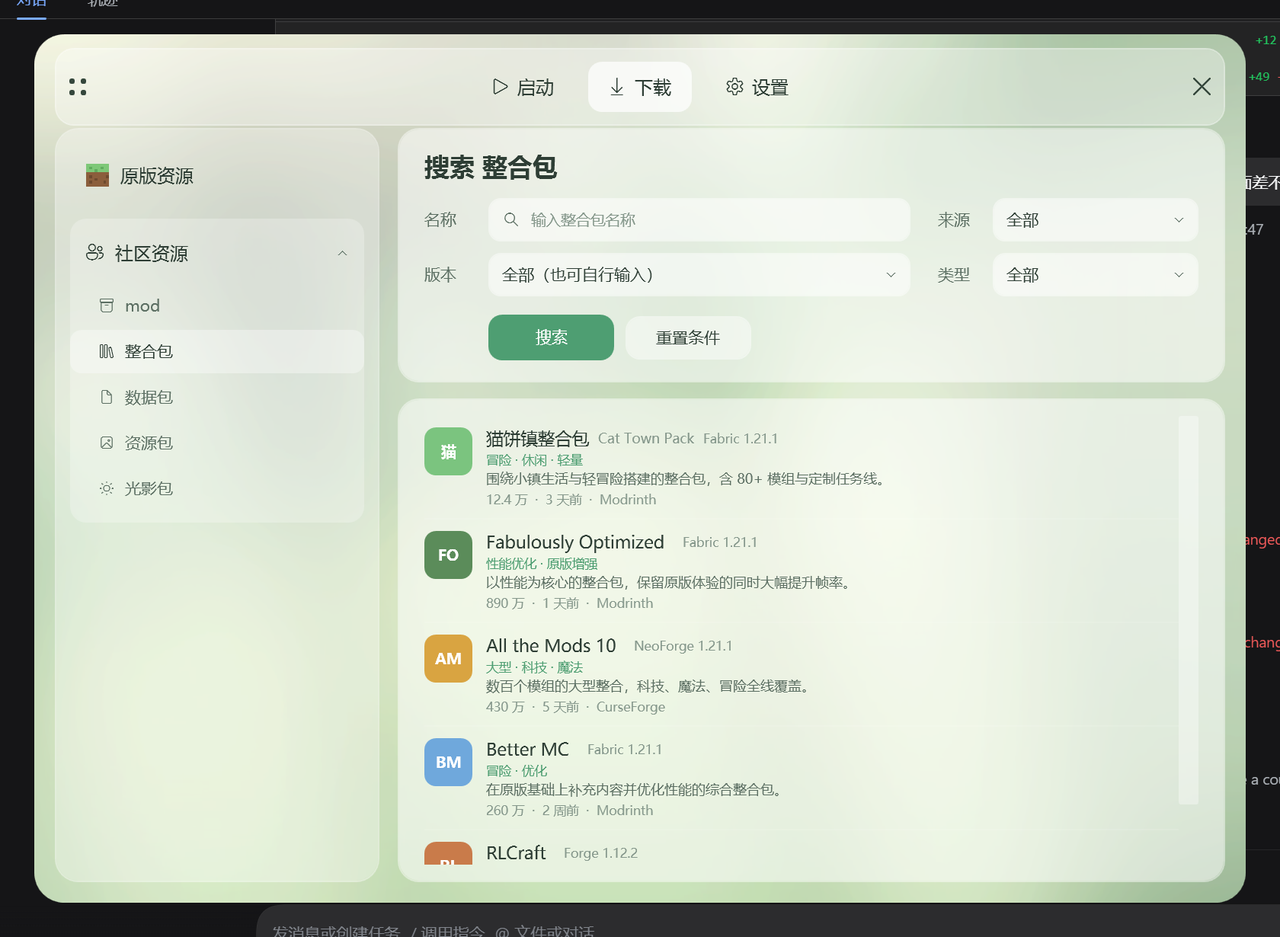
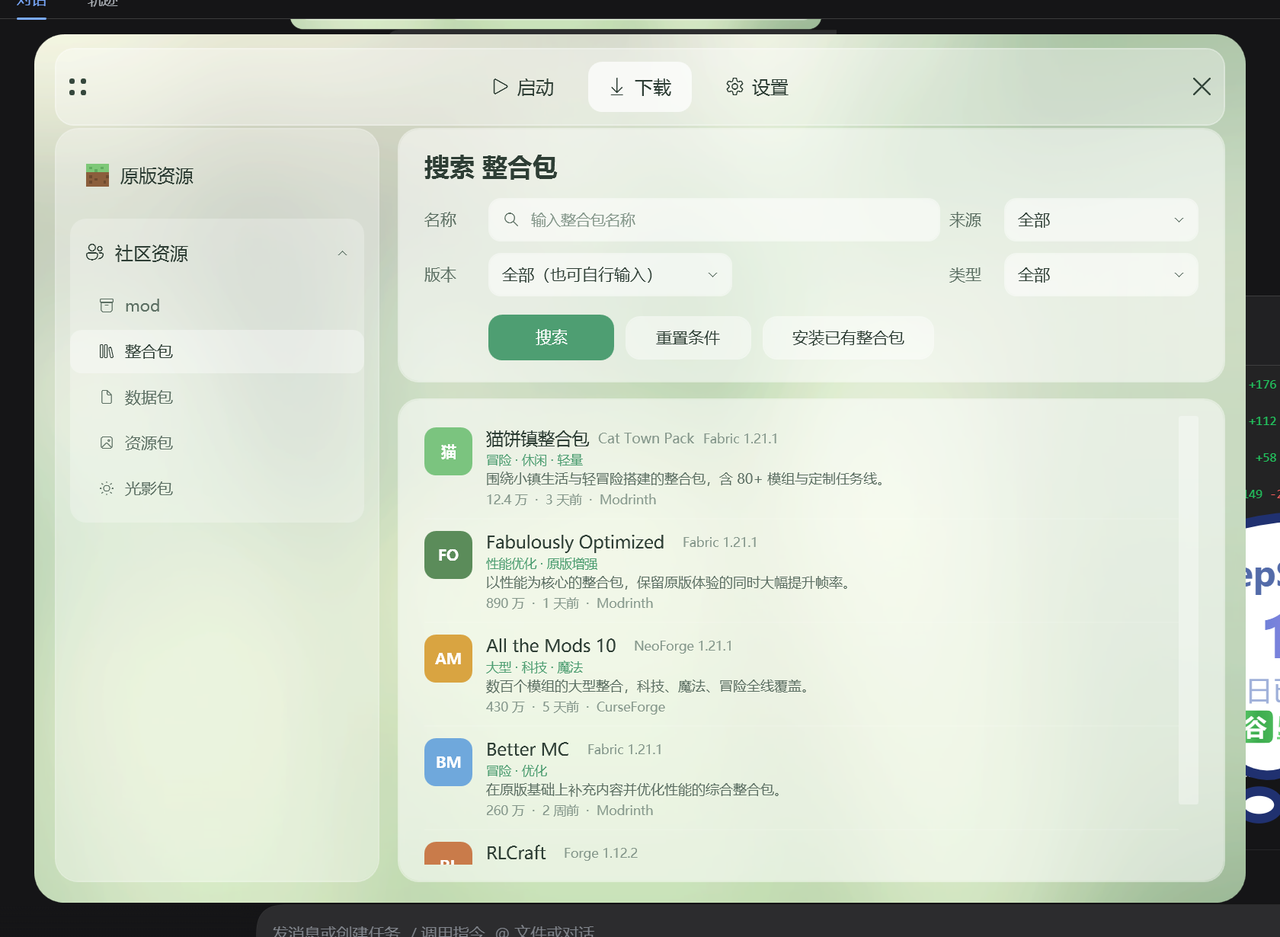
feat: Mod 搜索加加载器下拉，整合包页加安装已有整合包按钮

diff --git a/src/MutsumiLauncher/Views/Pages/CommunitySearchView.xaml b/src/MutsumiLauncher/Views/Pages/CommunitySearchView.xaml
@@ -18,8 +18,10 @@
                     <Grid.ColumnDefinitions>
                         <ColumnDefinition Width="56" />
                         <ColumnDefinition Width="*" />
+                        <ColumnDefinition Width="12" />
+                        <ColumnDefinition Width="170" />
                         <ColumnDefinition Width="56" />
-                        <ColumnDefinition Width="180" />
+                        <ColumnDefinition Width="170" />
                     </Grid.ColumnDefinitions>
                     <Grid.RowDefinitions>
                         <RowDefinition Height="Auto" />
@@ -28,35 +30,52 @@
                     </Grid.RowDefinitions>
 
                     <TextBlock Text="名称" Style="{StaticResource FieldLabel}" />
-                    <controls:MtlSearchBox x:Name="SearchNameBox" Grid.Column="1" Margin="0,0,16,0"
+                    <controls:MtlSearchBox x:Name="SearchNameBox" Grid.Column="1" Grid.ColumnSpan="3"
                                            Placeholder="输入名称" />
-                    <TextBlock Text="来源" Style="{StaticResource FieldLabel}" Grid.Column="2" Margin="8,0,0,0" />
-                    <ComboBox Grid.Column="3" Style="{StaticResource MtlComboBox}" SelectedIndex="0">
+                    <TextBlock Text="来源" Style="{StaticResource FieldLabel}" Grid.Column="4" Margin="8,0,0,0" />
+                    <ComboBox Grid.Column="5" Style="{StaticResource MtlComboBox}" SelectedIndex="0">
                         <ComboBoxItem Content="全部" />
                         <ComboBoxItem Content="Modrinth" />
                         <ComboBoxItem Content="CurseForge" />
                     </ComboBox>
 
                     <TextBlock Text="版本" Style="{StaticResource FieldLabel}" Grid.Row="1" Margin="0,10,0,0" />
-                    <ComboBox Grid.Row="1" Grid.Column="1" Style="{StaticResource MtlComboBox}"
-                              Margin="0,10,16,0" SelectedIndex="0">
+                    <ComboBox x:Name="VersionCombo" Grid.Row="1" Grid.Column="1"
+                              Style="{StaticResource MtlComboBox}" Margin="0,10,0,0" SelectedIndex="0">
                         <ComboBoxItem Content="全部（也可自行输入）" />
+                        <ComboBoxItem Content="26.2" />
                         <ComboBoxItem Content="1.21.1" />
                         <ComboBoxItem Content="1.20.1" />
+                        <ComboBoxItem Content="1.16.5" />
                     </ComboBox>
-                    <TextBlock Text="类型" Style="{StaticResource FieldLabel}" Grid.Row="1" Grid.Column="2"
+                    <ComboBox x:Name="LoaderCombo" Grid.Row="1" Grid.Column="3"
+                              Style="{StaticResource MtlComboBox}" Margin="0,10,0,0"
+                              SelectedIndex="0" Visibility="Collapsed">
+                        <ComboBoxItem Content="任意 Mod 加载器" />
+                        <ComboBoxItem Content="Fabric" />
+                        <ComboBoxItem Content="NeoForge" />
+                        <ComboBoxItem Content="Forge" />
+                        <ComboBoxItem Content="Quilt" />
+                    </ComboBox>
+                    <TextBlock Text="类型" Style="{StaticResource FieldLabel}" Grid.Row="1" Grid.Column="4"
                                Margin="8,10,0,0" />
-                    <ComboBox x:Name="TypeCombo" Grid.Row="1" Grid.Column="3" Style="{StaticResource MtlComboBox}"
+                    <ComboBox x:Name="TypeCombo" Grid.Row="1" Grid.Column="5" Style="{StaticResource MtlComboBox}"
                               Margin="0,10,0,0" SelectedIndex="0">
                         <ComboBoxItem Content="全部" />
+                        <ComboBoxItem Content="轻量" />
+                        <ComboBoxItem Content="大型" />
+                        <ComboBoxItem Content="优化" />
                     </ComboBox>
 
-                    <StackPanel Grid.Row="2" Grid.Column="1" Grid.ColumnSpan="3" Orientation="Horizontal"
+                    <StackPanel Grid.Row="2" Grid.Column="1" Grid.ColumnSpan="5" Orientation="Horizontal"
                                 Margin="0,16,0,0">
                         <Button Style="{StaticResource PrimaryButton}" Content="搜索" Width="110"
                                 Click="Search_Click" />
                         <Button Style="{StaticResource SecondaryButton}" Content="重置条件" Width="110"
                                 Margin="10,0,0,0" Click="ResetSearch_Click" />
+                        <Button x:Name="InstallPackButton" Style="{StaticResource SecondaryButton}"
+                                Content="安装已有整合包" Width="150" Margin="10,0,0,0"
+                                Visibility="Collapsed" Click="InstallPack_Click" />
                     </StackPanel>
                 </Grid>
             </StackPanel>

diff --git a/src/MutsumiLauncher/Views/Pages/CommunitySearchView.xaml.cs b/src/MutsumiLauncher/Views/Pages/CommunitySearchView.xaml.cs
@@ -1,6 +1,7 @@
 using System.Windows;
 using System.Windows.Controls;
 using MutsumiLauncher.ViewModels;
+using MutsumiLauncher.Views;
 
 namespace MutsumiLauncher.Views.Pages;
 
@@ -28,6 +29,10 @@ public partial class CommunitySearchView : UserControl
             _ => "输入 Mod 名称",
         };
 
+        // Mod 分类多一个加载器下拉；整合包分类多一个“安装已有整合包”按钮
+        LoaderCombo.Visibility = kind == "mod" ? Visibility.Visible : Visibility.Collapsed;
+        InstallPackButton.Visibility = kind == "pack" ? Visibility.Visible : Visibility.Collapsed;
+
         _source = CommunitySamples.ForKind(kind);
         SearchNameBox.Text = string.Empty;
         ResultsList.ItemsSource = _source;
@@ -47,6 +52,11 @@ public partial class CommunitySearchView : UserControl
                 .ToList();
 
         Loading.IsActive = false;
+    }
+
+    private void InstallPack_Click(object sender, RoutedEventArgs e)
+    {
+        (Window.GetWindow(this) as MainWindow)?.ShowToast("安装已有整合包：文件选择与解析还没接上。");
     }
 
     private void ResetSearch_Click(object sender, RoutedEventArgs e)

diff --git a/README.md b/README.md
@@ -63,7 +63,7 @@ MutsumiLauncher/
   - 设置：启动选项、内存分配（滑杆 + 内存占用条）、服务器、高级选项折叠区、全局设置入口
   - Mod 管理：名称搜索、启用状态过滤、回到顶部悬浮按钮
   - 导出：可勾选的导出内容树（Mod / 资源包 / 光影包 / 启动器程序等）、高级选项与配置读写入口
-- **社区资源搜索**：下载页切到 mod / 整合包 / 数据包 / 资源包 / 光影包 后，右侧变为对应分类的搜索页（独立标题、搜索占位与结果数据），结构与 Mod 搜索一致；「原版资源」仍显示版本清单。
+- **社区资源搜索**：下载页切到 mod / 整合包 / 数据包 / 资源包 / 光影包 后，右侧变为对应分类的搜索页（独立标题、搜索占位与结果数据）；Mod 页多一个「任意 Mod 加载器」下拉，整合包页多一个「安装已有整合包」按钮；「原版资源」仍显示版本清单。
 
 ### 通用 UI 组件
 
